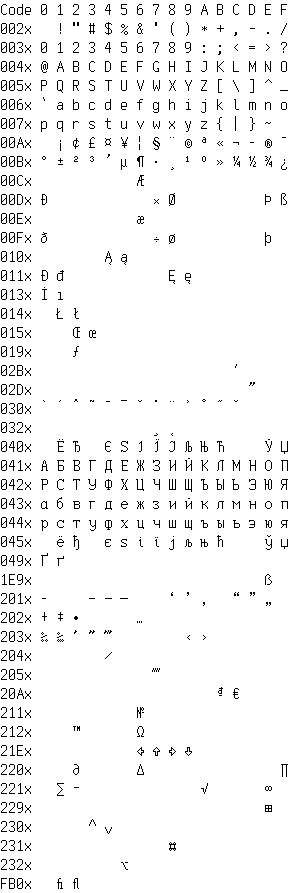
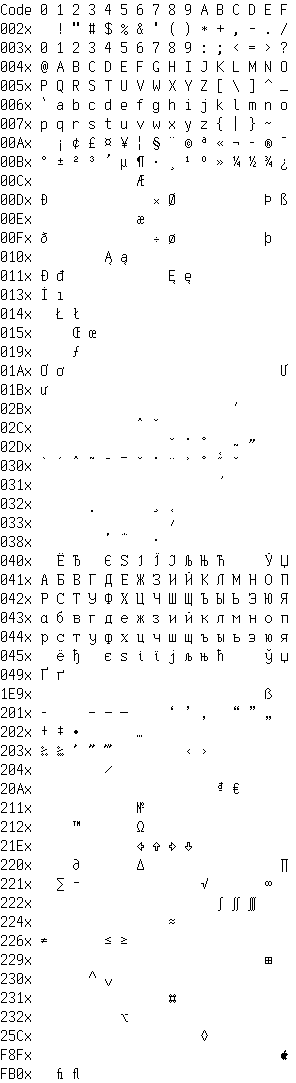
New codepoints

diff --git a/export.js b/export.js
@@ -101,17 +101,16 @@ function getImage(/** @type {string[]} */ textLines) {
 writeFileSync('./Codescopix.png', getImage(getTableText()));
 writeFileSync('./Example.png', getImage([
     'AaBbCcDdEeFfGgHhIiJjKkLlMmNnOoPpQqRrSsTtUuVvWwXxYyZz',
-    '!\"#$%&\'()*+,-./0123456789:;<=>?@[\\]^_`{|}~\u007f',
+    '!\"#$%&\'()*+,-./0123456789:;<=>?@[\\]^_`{|}~',
     '‰¡¢£¤¥¦§¨©ª«¬\u00AD®¯°±²³´µ¶·¸¹º»¼½¾¿',
-    'ÀàÁáÂâÃãÄäÅåÆæÇçÈèÉéÊêËëÌìÍíÎîÏïÐðÑñÒòÓóÔôÕõÖö×÷ØøÙùÚúÛûÜüÝýÞþßÿĀāĂă',
+    'ÀàÁáÂâÃãÄäÅåÆæÇçÈèÉéÊêËëÌìÍíÎîÏïÐðÑñÒòÓóÔôÕõÖö×÷ØøÙùÚúÛûÜüÝýÞþßÿĀāĂăƠơƯư',
     'ĄąĆćČčĎďĐđĒēĖėĘęĚěĞğĢģĪīĮįİıĶķĹĺĻļĽľŁłŃńŅņŇňŌōŐőŒœŔŕŖŗŘřŚśŞşŠšŢţŤťŪūŮůŰűŲųŸŹźŻżŽž',
     // TODO:
-    // 'ƠơƯư ˆˇ˘˙˚˛˜˝̣̀́̃̉΄΅·',
-    //'ΆΈΉΊΌΎΏΐΑΒΓΔΕΖΗΘΙΚΛΜΝΞΟΠΡΣΤΥΦΧΨΩΪΫάέήίΰαβγδεζηθικλμνξοπρςστυφχψωϊϋόύώ',
-    //'∫≈≠≤≥◊
+    //'ΑαΒβΓγΔδΕεΖζΗηΘθΙιΚκΛλΜμΝνΞξΟοΠπΡρΣσςΤτΥυΦφΧχΨψΩω ΆάΈέΉήΊίΪϊΐΌόΫϋΎύΰΏώ',
     'АаБбВвГгДдЕеЖжЗзИиЙйКкЛлМмНнОоПпРрСсТтУуФфХхЦцЧчШшЩщЪъЫыЬьЭэЮюЯя',
     'ЁёЂђҐґЃѓЄєЅѕІіЇїЈјЉљЊњЋћЌќЎўЏџӘәҖҗҢңӨөҮүҺһ',
-    '–—―‘’‚“”„†‡•…‰‹›⁄₫€№™Ω∂∆∏∑√∞∫≈≠≤≥◊ﬁﬂ',
+    '–—―‘’‚“”„†‡•…‰‹›⁄₫€№™Ω∂∆∏∑√∞∫≈≠≤≥◊\uF8FFﬁﬂ',
+    'ˆ ˇ ˘ ˙ ˚ ˛ ˜ ˝ ̀ ́ ̃ ̉ ̣ ΄ ΅ ·',
     '"Neutral", \'Neutral\', «French», ‹French›, “English”, ‘English’, „German“, ‚German‘',
     '―――― Em—Dash, En–Dash, z=10-x+y*2, hy‐phen‐ate, мʼята, ´acute, ˝double, ƒ′, ƒ″, ƒ‴',
     '⇧⌥⌘⊞ ⇦⇧⇨⇩⌃⌄ ¼, ½, ¾″ ÔÖŌÕ ŮÚŰÙ ŠŞŻŽŹ',
